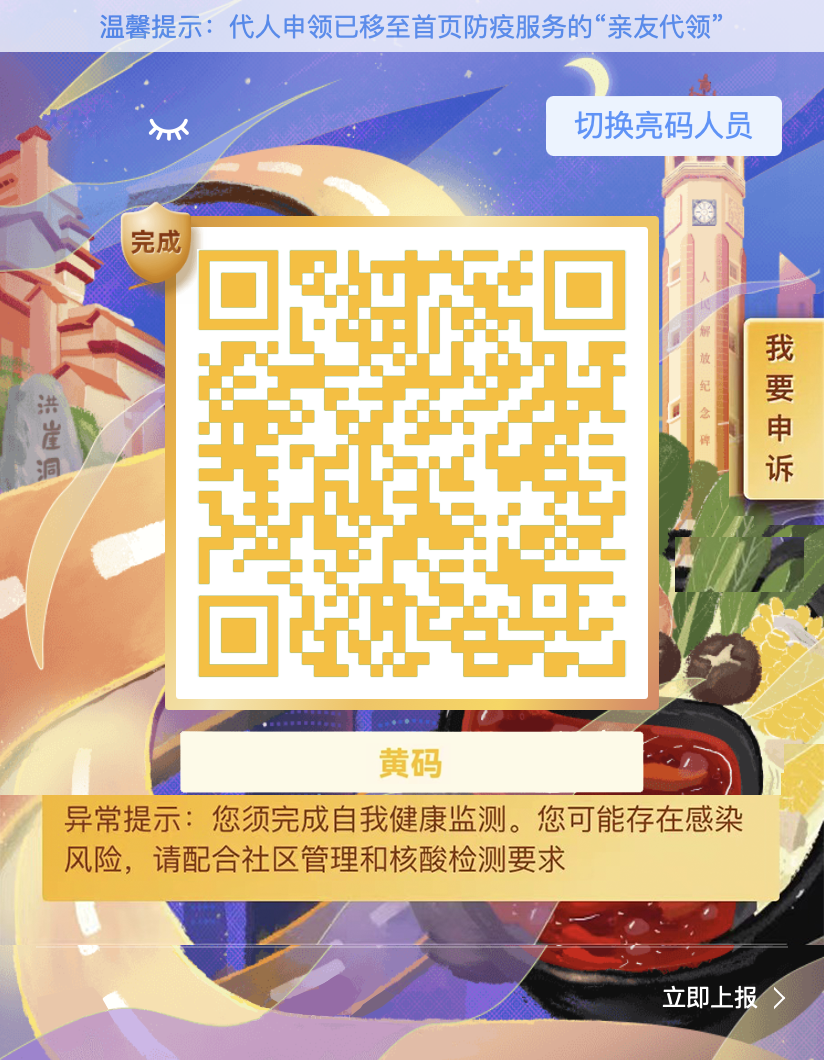
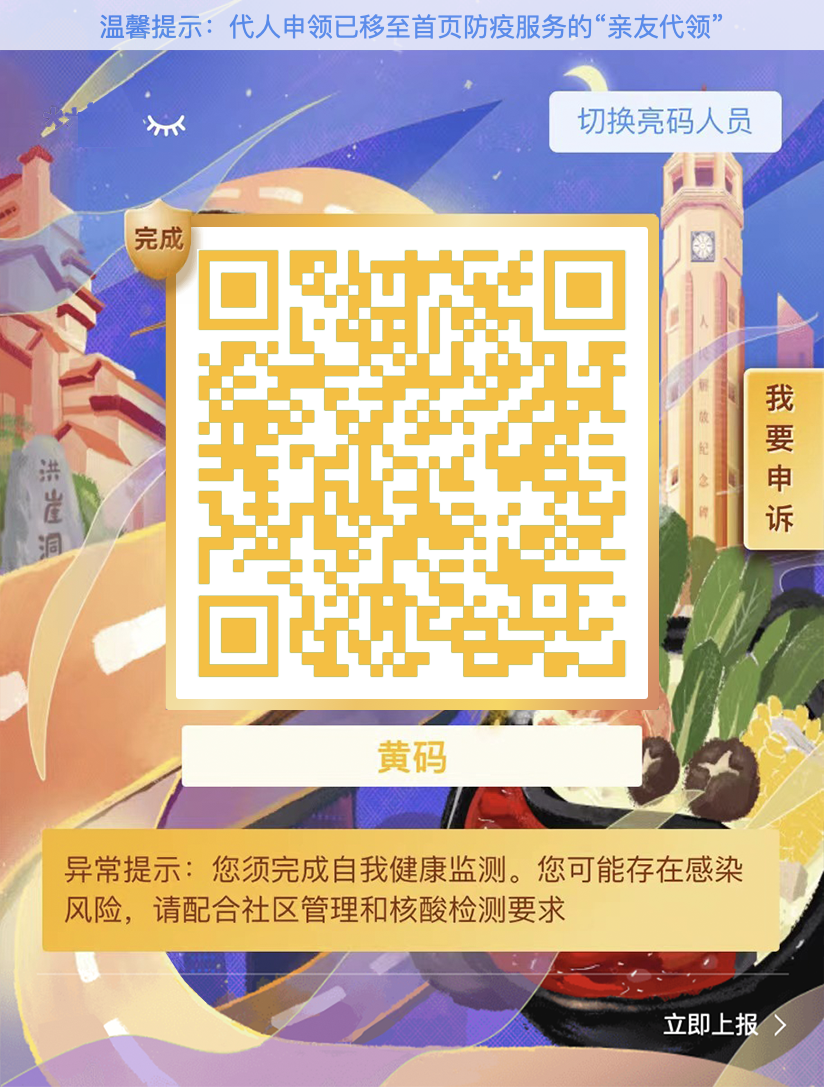
添加黄码

diff --git a/src/App.js b/src/App.js
@@ -114,7 +114,7 @@ function App() {
             }
             <div className={'qr-time'}>{time}<span>{second}</span></div>
             {
-                nickName !== '' && <div className={'qr-nickname'} style={{height:(qrHeight/4),top:toolbarHeight + (qrHeight/8) - 8,paddingLeft:nickName.length == 3?'40px':'65px'}}>{NickNamePre()}{" "}{nickName[nickName.length - 1]}</div>
+                nickName !== '' && <div className={'qr-nickname'} style={{height:(qrHeight/4),top:errCode === 'true'?toolbarHeight + (qrHeight/8) - 20:toolbarHeight + (qrHeight/8) - 8,paddingLeft:nickName.length == 3?'40px':'65px'}}>{NickNamePre()}{" "}{nickName[nickName.length - 1]}</div>
             }
             <div className={'qr-name'} style={{height:(qrHeight/4),top:toolbarHeight}} onClick={()=>{EditName()}}>{}</div>
         </div>
